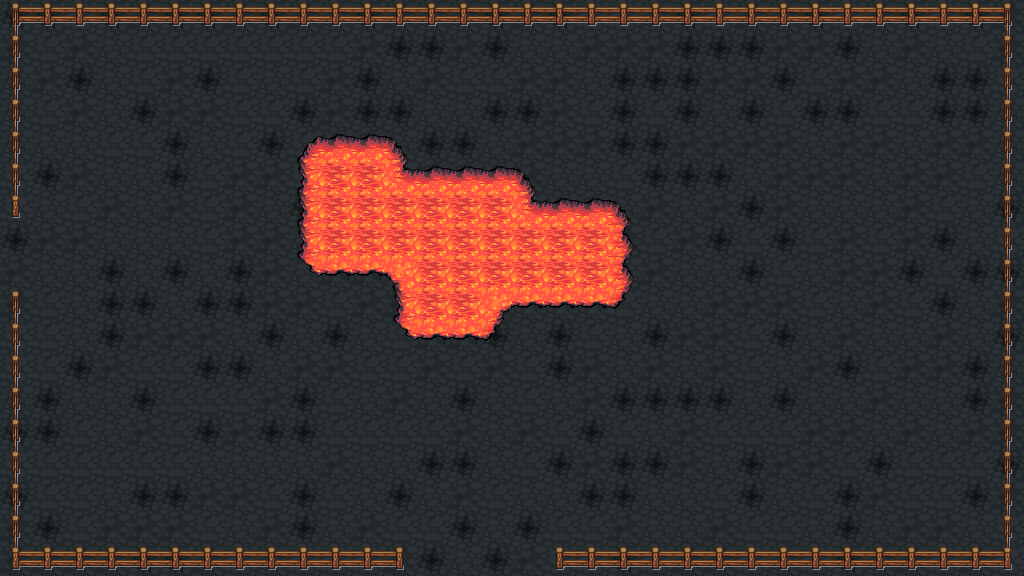
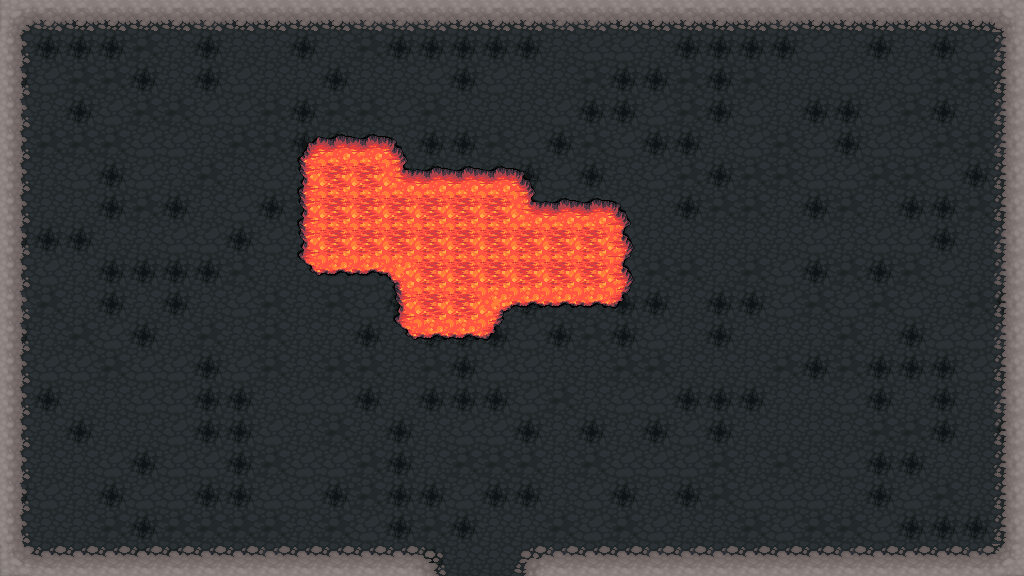
started working on dungeon maps

diff --git a/mapGen.py b/mapGen.py
@@ -195,8 +195,12 @@ class Map():
             for d in dirs:
                 curr = spotToCoord(spot)
                 new = Coords(curr.x + d[0], curr.y + d[1])
-                if new.x >= widthTiles or new.y >= heightTiles: continue
-                if new.x < 0 or new.y < 0: continue
+                if new.x >= widthTiles or new.y >= heightTiles:
+                    around = around | d[2]
+                    continue
+                if new.x < 0 or new.y < 0:
+                    around = around | d[2]
+                    continue
                 #if tileCoordToSpot(new) >= len(tiles): continue
                 if tiles[tileCoordToSpot(new)] == tiles[spot]:
                     around = around | d[2] #bitwise or direction with around
@@ -206,7 +210,9 @@ class Map():
             elif tiles[spot] == "g": self.placeTex(grass, spot, around)
             elif tiles[spot] == "l": self.placeTex(lavaRock, spot, around)
             elif tiles[spot] == "s": self.placeTex(stone, spot, around)
+            elif tiles[spot] == "S": self.placeTex(stoneWall, spot, around)
             elif tiles[spot] == "d": self.placeTex(dirt, spot, around)
+            elif tiles[spot] == "D": self.placeTex(dirtWall, spot, around)
             elif tiles[spot] == "w": self.placeTex(water, spot, around)
             elif tiles[spot] == "f": self.placeTex(fence, spot, around)
             elif tiles[spot] == "L": self.placeTex(lava, spot, around)
@@ -257,6 +263,7 @@ textureMap = makePicture(path + "Tiles/hyptosis_tile-art-batch-1.png")
 dirtMap = makePicture(tilesPath + "dirt.png")
 dirtArr = tileMapToArr(dirtMap)
 dirt = Tile(dirtArr, true, true, false, "dirt", "d")
+dirtWall = Tile(dirtArr, false, false, false, "dirtWall", "D")
 #add Grass
 grassMap = makePicture(tilesPath + "grass.png")
 grassArr = tileMapToArr(grassMap)
@@ -265,6 +272,7 @@ grass = Tile(grassArr, true, true, false, "grass", "g")
 stoneMap = makePicture(tilesPath + "stone.png")
 stoneArr = tileMapToArr(stoneMap)
 stone = Tile(stoneArr, true, true, false, "stone", "s")
+stoneWall = Tile(stoneArr, false, false, false, "stoneWall", "S")
 #add lavaRock
 lavaRockMap = makePicture(tilesPath + "lavarock.png")
 lavaRockArr = tileMapToArr(lavaRockMap)
@@ -383,22 +391,22 @@ nefield += "fggggggggggggddddggggggggggggggf"
 nefield += "fffffffffffffddddfffffffffffffff"
 #fieldMap = Map(field, grass, "NEfield.png")
 
-dungeon  = "ffffffffffffffffffffffffffffffff"
-dungeon += "fllllllllllllllllllllllllllllllf"
-dungeon += "fllllllllllllllllllllllllllllllf"
-dungeon += "fllllllllllllllllllllllllllllllf"
-dungeon += "fllllllllLLLLllllllllllllllllllf"
-dungeon += "fllllllllLLLLLLLLllllllllllllllf"
-dungeon += "fllllllllLLLLLLLLLLLlllllllllllf"
-dungeon += "lllllllllLLLLLLLLLLLlllllllllllf"
-dungeon += "lllllllllLLLLLLLLLLLlllllllllllf"
-dungeon += "flllllllllllLLLLLLLLlllllllllllf"
-dungeon += "flllllllllllLLLLlllllllllllllllf"
-dungeon += "fllllllllllllllllllllllllllllllf"
-dungeon += "fllllllllllllllllllllllllllllllf"
-dungeon += "fllllllllllllllllllllllllllllllf"
-dungeon += "fllllllllllllllllllllllllllllllf"
-dungeon += "fllllllllllllllllllllllllllllllf"
-dungeon += "fllllllllllllllllllllllllllllllf"
-dungeon += "fffffffffffffllllfffffffffffffff"
+entrance  = "SSSSSSSSSSSSSSSllSSSSSSSSSSSSSSS"
+entrance += "SllllllllllllllllllllllllllllllS"
+entrance += "SllllllllllllllllllllllllllllllS"
+entrance += "SllllllllllllllllllllllllllllllS"
+entrance += "SllllllllLLLLllllllllllllllllllS"
+entrance += "SllllllllLLLLLLLLllllllllllllllS"
+entrance += "SllllllllLLLLLLLLLLLlllllllllllS"
+entrance += "SllllllllLLLLLLLLLLLlllllllllllS"
+entrance += "lllllllllLLLLLllllLLllllllllllll"
+entrance += "llllllllllllLLllllLLllllllllllll"
+entrance += "SllllllllllllllllllllllllllllllS"
+entrance += "SllllllllllllllllllllllllllllllS"
+entrance += "SllllllllllllllllllllllllllllllS"
+entrance += "SllllllllllllllllllllllllllllllS"
+entrance += "SllllllllllllllllllllllllllllllS"
+entrance += "SllllllllllllllllllllllllllllllS"
+entrance += "SllllllllllllllllllllllllllllllS"
+entrance += "SSSSSSSSSSSSSSSSSSSSSSSSSSSSSSSS"
 #dungeonMap = Map(dungeon, lavaRock, "dungeonMap.png")

diff --git a/RobotSaga.py b/RobotSaga.py
@@ -2630,9 +2630,9 @@ home += "ffffffffffffffffffffffffffffffff"
 town = makePicture(path + "newBack.png")
 townMap = Map(home, town)
 townSpawn = Coords(13*BITS, 1*BITS)
-townAnimations = [StationaryAnimatedSprite(path + "\\EffectSprites\\blankWater.gif", path + "\\EffectSprites\\waterMoving.gif", 256, 352),
-                  ThreeStageAnimationCycle(path + "\\EffectSprites\\sakuraMoving1.gif", path + "\\EffectSprites\\sakuraMoving2.gif", path + "\\EffectSprites\\sakuraMoving3.gif", 320, 0, .3),
-                  ThreeStageAnimationCycle(path + "\\EffectSprites\\sakuraMoving1.gif", path + "\\EffectSprites\\sakuraMoving2.gif", path + "\\EffectSprites\\sakuraMoving3.gif", 896, 384, .3)]
+townAnimations = [StationaryAnimatedSprite(path + "/EffectSprites/blankWater.gif", path + "/EffectSprites/waterMoving.gif", 256, 352),
+                  ThreeStageAnimationCycle(path + "/EffectSprites/sakuraMoving1.gif", path + "/EffectSprites/sakuraMoving2.gif", path + "/EffectSprites/sakuraMoving3.gif", 320, 0, .3),
+                  ThreeStageAnimationCycle(path + "/EffectSprites/sakuraMoving1.gif", path + "/EffectSprites/sakuraMoving2.gif", path + "/EffectSprites/sakuraMoving3.gif", 896, 384, .3)]
 currentMap = townMap
 
 nfield  = "ffffffffffffffffffffffffffffffff"
